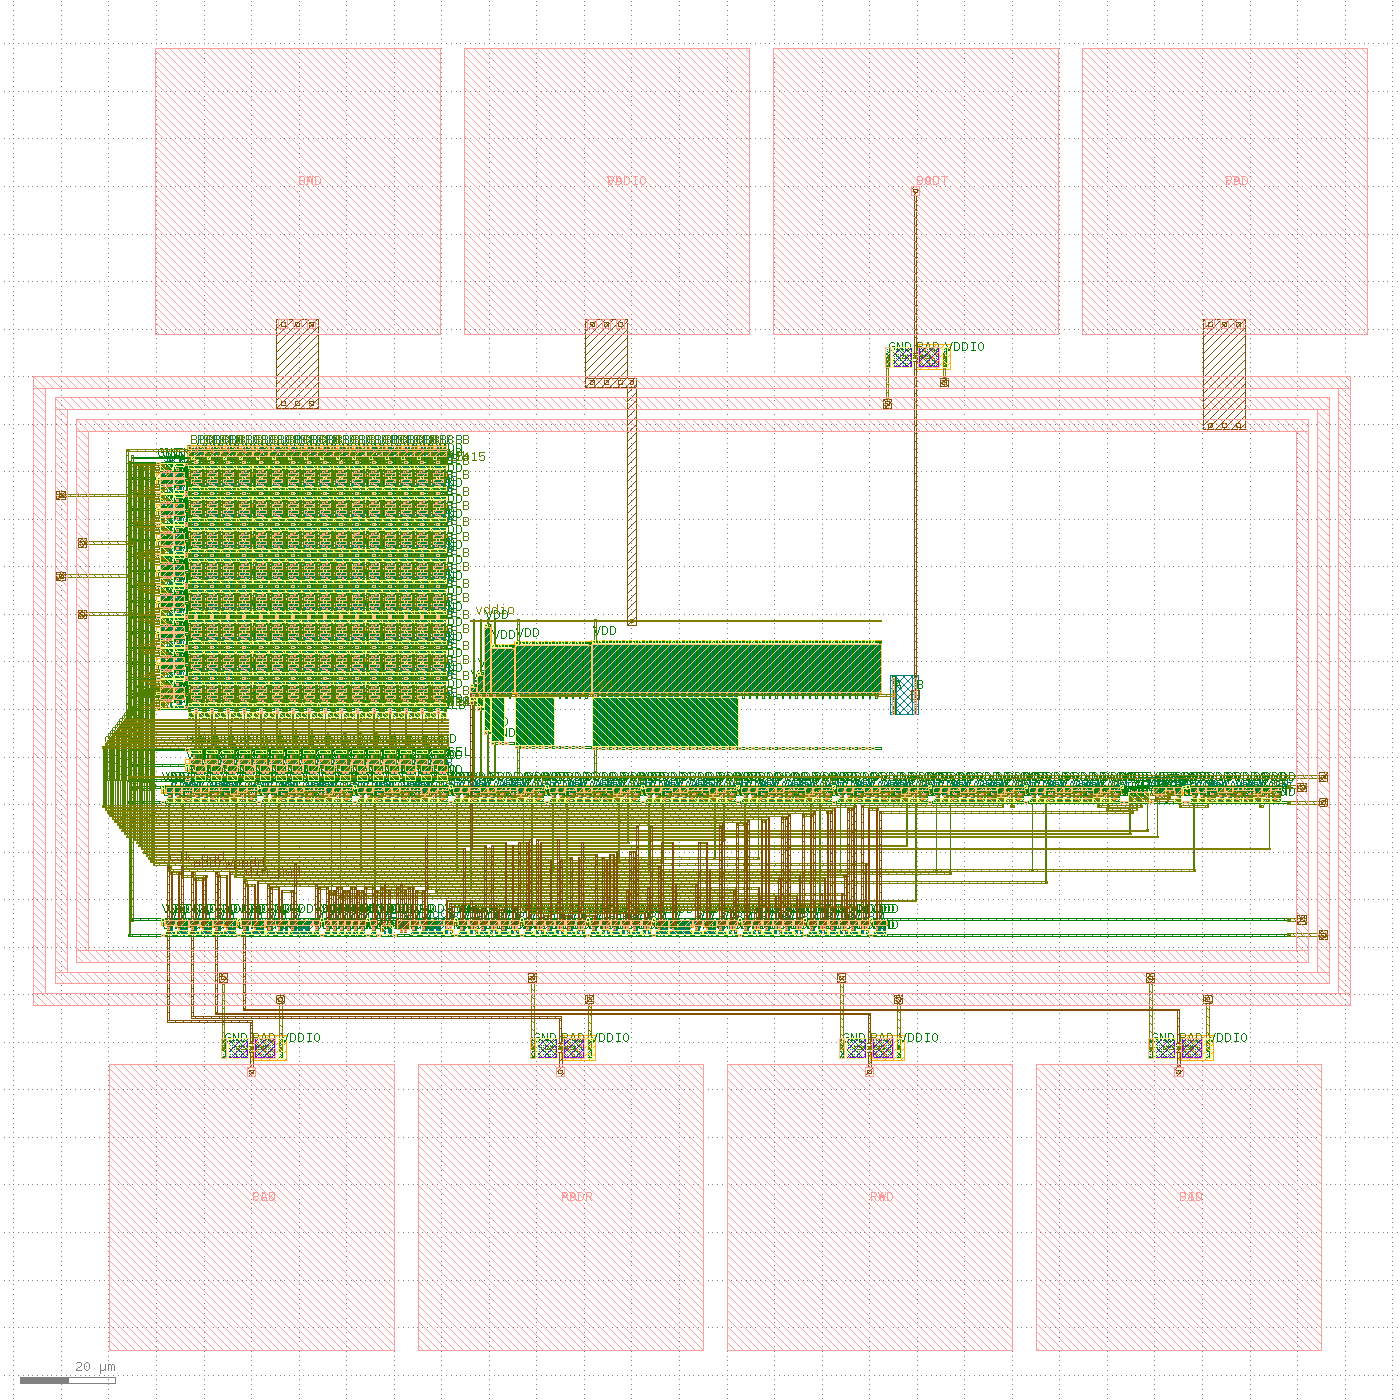
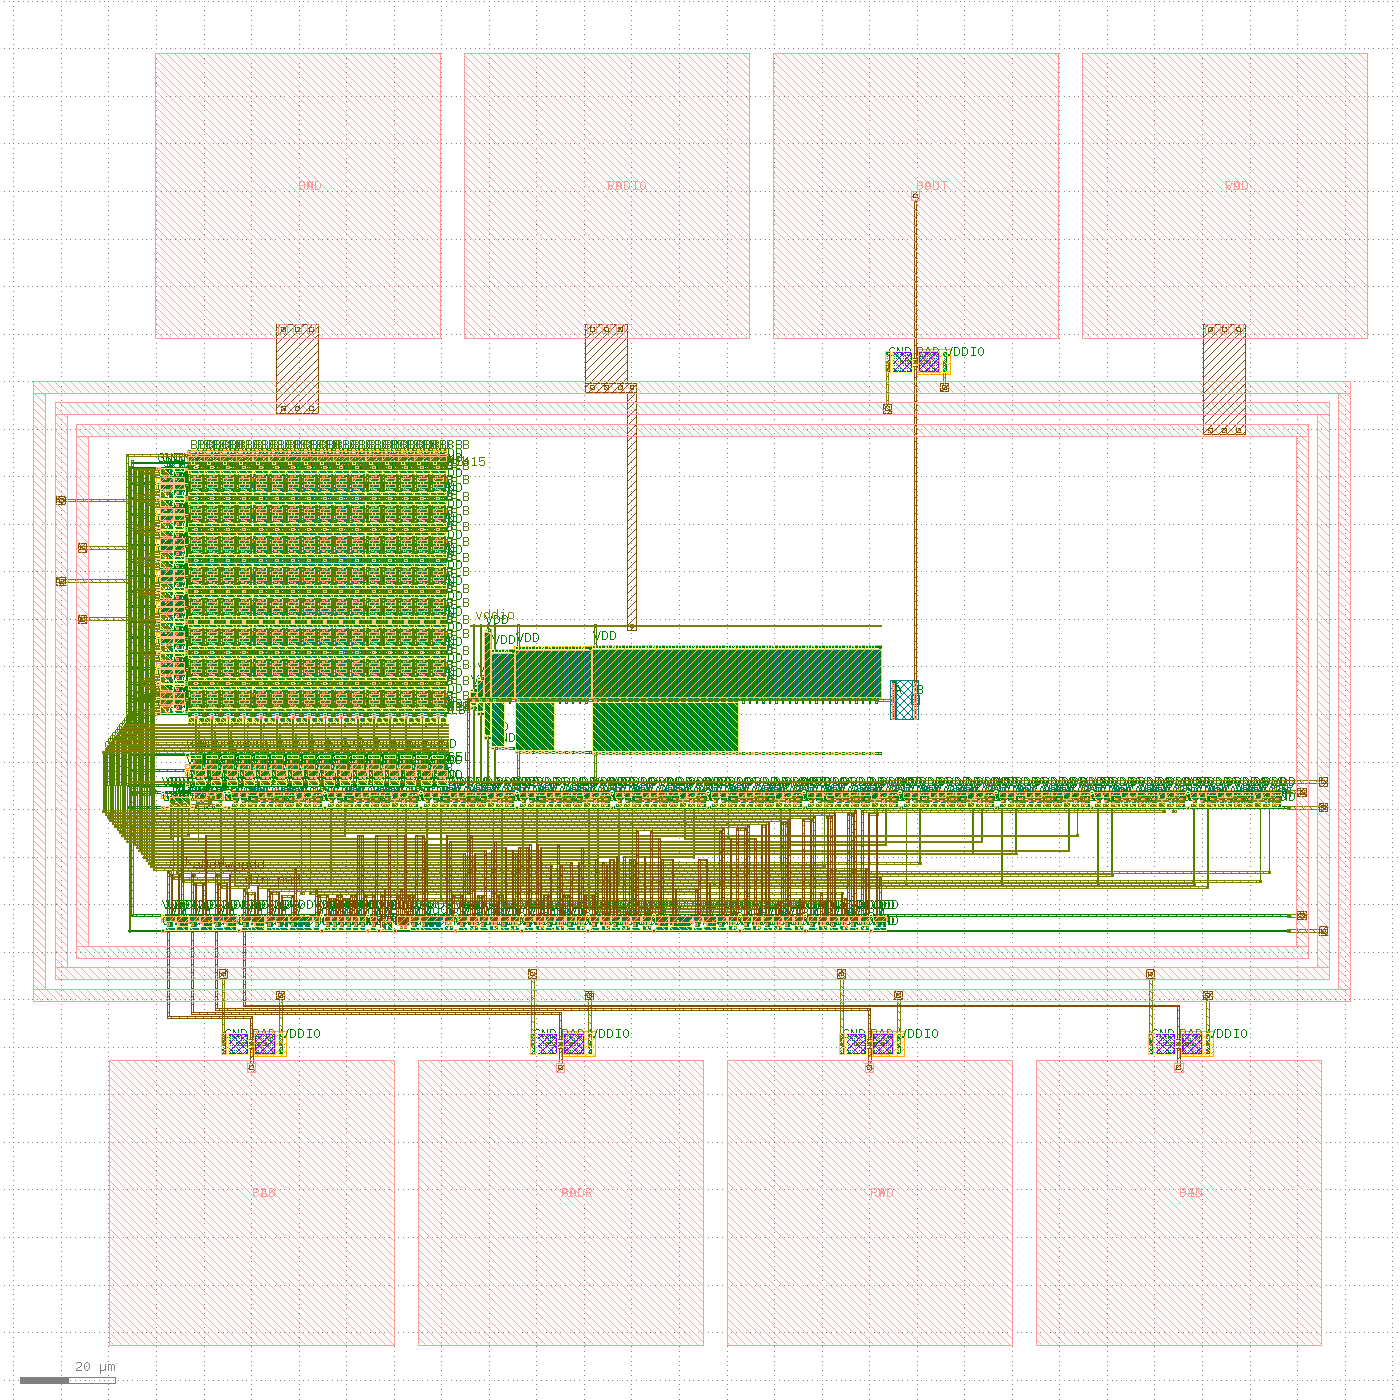
Viva questions

diff --git a/sram/gen/post_extra.py b/sram/gen/post_extra.py
@@ -7,10 +7,13 @@ import post
 from paths import SIM, PDK_LIB
 post.INC = post.fixed("net_extra")
 HEAD = [f".lib {PDK_LIB} tt", f".include {post.INC}", "Vdd vdd 0 1.8", "Vddio vddio 0 1.8", "Xtop p_DOUT vddio 0 vdd p_CLK p_ADDR p_RW p_DIN sram_top"]
+# as in Stage 1 leakage_op.sp: without defined states every cell solves at its metastable midpoint
+Q = [f"v(xtop.chip/core/c_{r}_{c}/q)=1.8 v(xtop.chip/core/c_{r}_{c}/qb)=0" for r in range(16) for c in range(16)]
+NS = [".nodeset " + " ".join(Q[i:i + 8]) for i in range(0, 256, 8)]
 def run(name, body):
     p = os.path.join(SIM, name + ".sp"); open(p, "w").write("\n".join(body))
     r = subprocess.run(["ngspice", "-b", p], cwd=SIM, capture_output=True, text=True); open(p[:-3] + ".log", "w").write(r.stdout + r.stderr); return r.stdout
-out = run("leak", ["* leakage"] + HEAD + ["Vc p_CLK 0 0", "Va p_ADDR 0 0", "Vr p_RW 0 0", "Vi p_DIN 0 0", "Rl p_DOUT 0 1e9", ".control", "op", "print i(Vdd) i(Vddio)", ".endc", ".end"])
+out = run("leak", ["* leakage"] + HEAD + ["Vc p_CLK 0 0", "Va p_ADDR 0 0", "Vr p_RW 0 0", "Vi p_DIN 0 0", "Rl p_DOUT 0 1e9", *NS, ".control", "op", "print i(Vdd) i(Vddio)", ".endc", ".end"])
 print([l for l in out.splitlines() if l.startswith("i(")])
 T = 5e-9; N = {"clk_ff": "chip/Xck_a2/Y", "ckr": sys.argv[1], "clkb": sys.argv[2], "pcb": sys.argv[3], "wl0": "chip/core/rc0/WL"}
 tr = ["* branches"] + HEAD + [f"Vc c 0 PULSE(0 1.8 {T/2} 50p 50p {T/2-50e-12} {T})", "Rc c p_CLK 50", "Cp p_CLK 0 1p", "Va p_ADDR 0 0", "Vr p_RW 0 0", "Vi p_DIN 0 0", "Rl p_DOUT 0 1e9"]

diff --git a/sram/docs/VIVA_QA.md b/sram/docs/VIVA_QA.md
@@ -1,0 +1,78 @@
+# Likely viva questions
+
+Numbers are from this design. Schematic Fmax is from Stage 1 results; post-layout numbers are on the extracted final chip at TT, 1.8 V.
+
+1. **How do five pins address 256 bits?**
+   ADDR is serial. Eight flops shift it in, and each cycle uses the last 8 bits: A[7:4] row, A[3:0] column.
+
+2. **Why does an access happen every cycle?**
+   The register always holds a valid address. So a de Bruijn sequence can touch a new location each cycle: 256 writes in 263 cycles.
+
+3. **Why 0.63 / 0.42 / 0.42 in the bit cell?**
+   Cell ratio 1.5 keeps reads stable (read SNM 375 mV), while the access device can still overpower the 0.42 pull-up for writes (trip 654 mV).
+
+4. **Define static noise margin.**
+   The largest square that fits inside the butterfly curve lobes. I measured it with the Seevinck 45 degree rotation.
+
+5. **Why is read SNM lower than hold SNM?**
+   During a read, the access device lifts the low node, which weakens the inverter. Hold is 714 mV and read is 375 mV.
+
+6. **Why did the extracted SNM not change?**
+   SNM is DC, so parasitic caps have no effect. The match mostly proves the layout kept the device sizes.
+
+7. **Why do bit cell rows mirror but columns not?**
+   Mirrored rows share rails and taps. Mirrored columns would join neighbouring BLBs through shared diffusion.
+
+8. **What sets the bit cell pitch?**
+   Local interconnect spacing, which forces a 0.70 um contact pitch. The pitch is 3.40 x 3.24 um, or 11.0 um2.
+
+9. **Why precharge with PMOS?**
+   PMOS passes a full VDD. NMOS would stop one threshold below it.
+
+10. **Why NMOS only in the column mux?**
+    Reads sense DL falling and writes pull a line low, and NMOS passes lows well.
+
+11. **Why a skewed inverter instead of a sense amplifier?**
+    It is far smaller and simpler for 256 bits. The cost is speed: it waits for a large swing on DL.
+
+12. **What limits Fmax?**
+    Read time. One bit cell must discharge BL and DL before the output flop captures. The read window is about half a clock cycle.
+
+13. **Your Fmax dropped from 769 to 454 MHz. Why?**
+    Extra wire and junction capacitance on the read path. DL has about 20 fF of wire against the 10 fF schematic estimate, and every part of the clock and decode path is slower too.
+
+14. **How did you find that?**
+    Waveforms at 2.5 ns showed DL too slow. DL wire was 43 fF because `rwckt` sat 200 um away. Moving it cut DL to 20 fF and raised Fmax from 333 to 454 MHz.
+
+15. **Is the poly wordline a problem?**
+    Each is about 17 kohm. I added that R per cell and compared at 2.0 ns on the earlier layout: 26 errors either way, so it was not the limit there. The final numbers include it.
+
+16. **Why not metal wordlines?**
+    Metal 1 is used by rails and metal 2 by bitlines. A strap would need more area in the cell.
+
+17. **Why did energy double after layout?**
+    Dynamic energy is C V squared, and wires add C. Core write energy went from 2.34 to 5.12 pJ. The 2.34 pJ is at 200 MHz and the 5.12 pJ at 2.2 ns.
+
+18. **Why is I/O energy larger than core energy?**
+    The output driver swings a 5 pF load through a large buffer chain on VDDIO.
+
+19. **Why 11 flops?**
+    8 address, 1 RW, 1 DIN, 1 DOUT.
+
+20. **How is precharge timed against the wordline?**
+    pcb is NAND of the clock and an 8-inverter delayed copy, so it stays off until the wordline has closed.
+
+21. **What is your clock skew?**
+    Between `clk_ff` and `clkb` it is 15 ps from simulation. Along `clk_ff` itself I calculated about 15 ohm of metal 3 from the centre feed, so under 1 ps. That part is an estimate, because wire R was not extracted.
+
+22. **Is that an H-tree?**
+    No. The flops are in one row, so it is a centre-fed trunk. An H-tree suits a 2D spread of loads.
+
+23. **Why is array efficiency only 3.7%?**
+    The chip is pad-limited. Eight 60 um pads and rings set the size at 76,236 um2; the array is 2,820 um2.
+
+24. **What did LVS catch that DRC could not?**
+    Wire overlaps between nets, such as `rdqb` to `ab7`, and transmission gate PMOS drawn 0.84 instead of 0.42.
+
+25. **What would you improve next?**
+    Add a differential sense amplifier, strap the wordlines, tighten the control row, and check IR drop and ESD properly.
